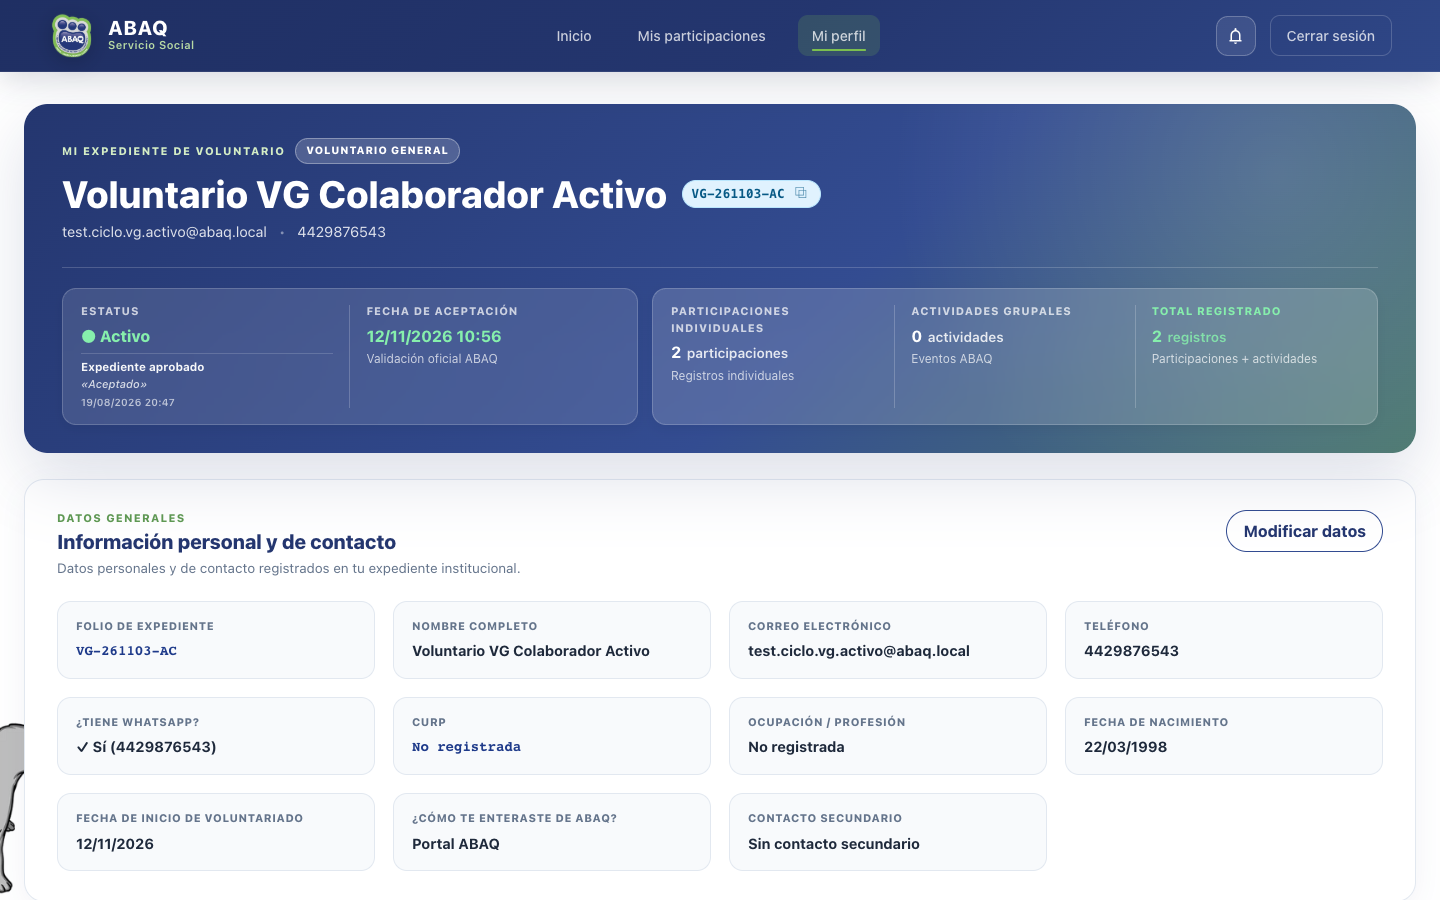
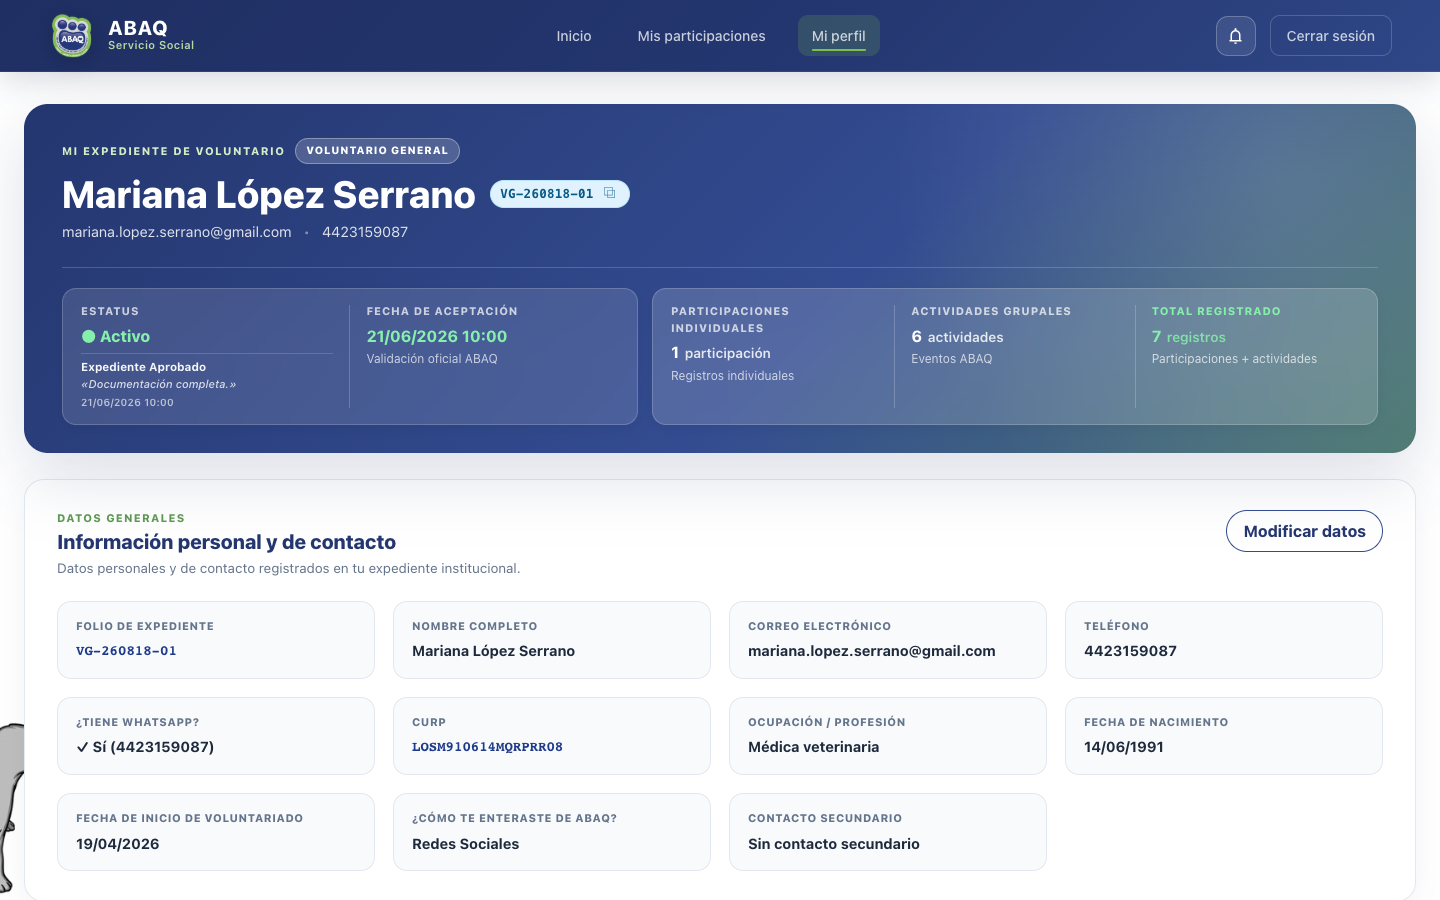
docs(manuales): actualiza capturas y datos de ejemplo de Servicio Social y Voluntario General

diff --git a/docs/guias/usuario/manual-voluntario-general.md b/docs/guias/usuario/manual-voluntario-general.md
@@ -11,7 +11,7 @@ Este manual está dirigido a personas que participan en ABAQ Querétaro como **V
 
     - Los nombres de botones, pestañas y etiquetas aparecen entre comillas exactamente como se muestran en la interfaz.
     - Las cifras y folios que aparecen en las capturas pertenecen a una cuenta de demostración; en su cuenta verá sus propios datos.
-    - El **folio institucional** (formato `VG-XXXXXXXX-XX`) identifica de forma única su expediente y se utiliza en constancias y comunicaciones con la Coordinación.
+    - El **folio institucional** (formato `VG-YYMMDD-XX`, por ejemplo `VG-260818-01`) identifica de forma única su expediente y se utiliza en constancias y comunicaciones con la Coordinación.
 
 ## Índice de capturas de pantalla
 
@@ -131,7 +131,7 @@ El encabezado ofrece:
 
 - Los botones **Ver actividades para inscribirme** y **Registrar vinculación**.
 - Las píldoras de resumen: **participaciones en total**, **próximas en mi agenda**, **en revisión** y **validadas**. A diferencia del perfil de Servicio Social, no existe la píldora de horas acumuladas.
-- **Tu agenda de participación**: las convocatorias a las que se inscribió y las vinculaciones programadas para la semana en curso y la siguiente, organizadas por bloques **ESTA SEMANA** y la semana posterior. Cada tarjeta indica la fecha (por ejemplo, **Jue 12 Nov**), el tipo de participación (**Vinculación**), el botón **Agregar al calendario**, el folio con su identificador `OP-…`, la categoría de la actividad y la nota registrada para la Coordinación, con el botón **Ver detalles**.
+- **Tu agenda de participación**: las convocatorias a las que se inscribió y las vinculaciones programadas para la semana en curso y la siguiente, organizadas por bloques **ESTA SEMANA** y la semana posterior. Cada tarjeta indica la fecha (por ejemplo, **Sáb 21 Nov**), el tipo de participación (**Convocatoria**), el botón **Agregar al calendario**, el folio con su identificador `OP-…`, la categoría de la actividad y las indicaciones de la Coordinación, con los botones **Ver detalles**, **Ver asistentes** y **Cancelar asistencia**.
 
 ### 5.2 Búsqueda, filtros e inscripción
 
@@ -158,7 +158,7 @@ Cada tarjeta de convocatoria abierta muestra el folio, la etiqueta de estado (po
 
 ### 5.3 Estados de una participación
 
-![Tarjetas de participación con barras de avance de inscrito a validada y de enviada a revisión](attachments/compartido-01-estado-inscrito.png)
+![Tarjeta de una vinculación enviada con la barra de avance de enviada a validada](attachments/compartido-01-estado-inscrito.png)
 
 Cada participación muestra una barra de avance con su etapa actual:
 
@@ -167,7 +167,7 @@ Cada participación muestra una barra de avance con su etapa actual:
 | **Convocatorias** | 1. **Inscrito** → 2. **Asistencia** (o **No asistió**) → 3. **Validada** |
 | **Vinculaciones** | 1. **Enviada** → 2. **En revisión** → 3. **Validada** (o **Rechazada**) |
 
-Las vinculaciones muestran además la nota registrada para la Coordinación («Tu nota para la Coordinación: …») y el botón **Cancelar envío**, disponible mientras la solicitud no ha sido validada. En convocatorias inscritas, el botón **Cancelar asistencia** libera su lugar.
+Las vinculaciones muestran además la nota registrada para la Coordinación («Tu nota para la Coordinación: …») y el botón **Cancelar envío**, disponible mientras la solicitud no ha sido validada. En convocatorias inscritas, el botón **Cancelar asistencia** libera su lugar. La captura de esta sección ilustra una vinculación en revisión, con la etapa **2. En revisión** activa.
 
 ### 5.4 Cancelar asistencia
 
@@ -186,7 +186,7 @@ Una **vinculación** es cualquier apoyo concreto que ofrece a ABAQ fuera de una 
 Abra el formulario con el botón **Registrar vinculación** (disponible en el encabezado de **Mis participaciones** y en el menú móvil). El formulario incluye:
 
 1. **Proceso de verificación institucional**: aviso de que el registro no se acredita de forma automática; al enviarlo, la Coordinación de Voluntariado revisará su evidencia para verificarla y emitir su acreditación oficial.
-2. **Identificación del expediente**: la tarjeta verde confirma el expediente de Voluntario General como registro de labor social comunitaria, por ejemplo **[VG-261103-AC] Voluntario VG Colaborador Activo**.
+2. **Identificación del expediente**: la tarjeta verde confirma el expediente de Voluntario General como registro de labor social comunitaria, con la leyenda «Voluntario General — Registro de labor social comunitaria»; por ejemplo, **[VG-260818-01] Mariana López Serrano**.
 3. **¿Cómo participaste?**: lista de opciones de participación.
 4. **Documento comprobante (.PDF)**: área para arrastrar y soltar el archivo. El documento debe ser oficial, en formato `.PDF`, y se envía a resguardo cifrado en el repositorio institucional.
 5. Los botones **Cancelar** y **Enviar a revisión de Coordinación**.
@@ -225,7 +225,7 @@ La sección **Mi perfil** presenta el expediente institucional del voluntario: e
 El encabezado del expediente, identificado como **MI EXPEDIENTE DE VOLUNTARIO · VOLUNTARIO GENERAL**, muestra:
 
 - Su nombre y **folio institucional**.
-- **Estatus** de la cuenta (por ejemplo, **Activo**) y el resultado de la última revisión (**Expediente aprobado «Aceptado»**).
+- **Estatus** de la cuenta (por ejemplo, **Activo**) y el resultado de la última revisión (**Expediente aprobado «Documentación completa.»**).
 - **Fecha de aceptación** con la validación oficial de ABAQ.
 - **Participaciones individuales**, **actividades grupales** y **total registrado**.
 
@@ -233,7 +233,7 @@ La tarjeta **Información personal y de contacto** presenta, entre otros, los si
 
 | Dato | Descripción |
 |------|-------------|
-| **Folio de expediente** | Identificador institucional (por ejemplo, `VG-261103-AC`). |
+| **Folio de expediente** | Identificador institucional (por ejemplo, `VG-260818-01`). |
 | **Nombre completo**, **correo electrónico** y **teléfono** | Datos de contacto registrados. |
 | **¿Tiene WhatsApp?** | Indicador del canal de contacto. |
 | **CURP** y **ocupación / profesión** | Datos capturados en el onboarding. |
@@ -264,11 +264,11 @@ La sección **Consentimientos y reglamento** incluye:
 
 La sección **Comunidad y redes — Canales oficiales y difusión** muestra las cuentas registradas para comunicación institucional y difusión de actividades (Facebook, Instagram, TikTok, X (Twitter), YouTube y LinkedIn), con el botón **Modificar datos** para actualizarlas.
 
-Finalmente, la sección **Trazabilidad institucional — Historial** presenta la tabla de folios únicos asignados a su expediente, actividades grupales y participaciones individuales, organizada por las columnas **Folio**, **Concepto**, **Detalle**, **Estado** y **Fecha**. Cada folio (por ejemplo, `VG-261103-AC` para el expediente o `OP-EVE-…` para una acreditación institucional) puede copiarse para referencias ante la Coordinación.
+Finalmente, la sección **Trazabilidad institucional — Historial** presenta la tabla de folios únicos asignados a su expediente, actividades grupales y participaciones individuales, organizada por las columnas **Folio**, **Concepto**, **Detalle**, **Estado** y **Fecha**. Cada folio (por ejemplo, `VG-260818-01` para el expediente o `OP-EVE-261121-4EA3` para una actividad asignada) puede copiarse para referencias ante la Coordinación.
 
 ## 8. Notificaciones
 
-![Centro de notificaciones con búsqueda, filtros y estado vacío](attachments/vg-12-notificaciones.png)
+![Centro de notificaciones con avisos de nueva convocatoria y de participación validada](attachments/vg-12-notificaciones.png)
 
 El ícono de campana de la barra de navegación abre el **Centro de Notificaciones ABAQ**, un panel lateral con:
 
@@ -277,7 +277,7 @@ El ícono de campana de la barra de navegación abre el **Centro de Notificacion
 - **Filtros**: **Todas**, **No leídas**, **Convocatorias** y **Vinculaciones**.
 - La acción **Marcar todas como leídas**.
 
-En este centro recibirá sus aceptaciones de expediente, constancias, avisos institucionales y el resumen semanal de actividades. Las notificaciones le informan, por ejemplo, de la validación de una vinculación o de la aprobación de su expediente.
+En este centro recibirá sus aceptaciones de expediente, constancias, avisos institucionales y el resumen semanal de actividades. Las notificaciones le informan, por ejemplo, de la validación de una participación o de la aprobación de su expediente. La captura muestra una **nueva convocatoria** y la **participación validada** por la Recolecta de alimento y cobijas del 12 de noviembre.
 
 !!! note "Filtros por rol"
 

diff --git a/docs/guias/usuario/manual-servicio-social.md b/docs/guias/usuario/manual-servicio-social.md
@@ -11,7 +11,7 @@ Este manual está dirigido a estudiantes universitarios que realizan su **Servic
 
     - Los nombres de botones, pestañas y etiquetas aparecen entre comillas exactamente como se muestran en la interfaz.
     - Las cifras y folios que aparecen en las capturas pertenecen a una cuenta de demostración; en su cuenta verá sus propios datos.
-    - El **folio institucional** (formato `SS-XXXXXXXX-XX`) identifica de forma única su expediente y se utiliza en constancias y comunicaciones con la Coordinación.
+    - El **folio institucional** (formato `SS-YYMMDD-XX`, por ejemplo `SS-260818-01`) identifica de forma única su expediente y se utiliza en constancias y comunicaciones con la Coordinación.
 
 ## Índice de capturas de pantalla
 
@@ -227,7 +227,7 @@ El encabezado ofrece:
 
 - Los botones **Ver actividades para inscribirme** y **Registrar vinculación**.
 - Las píldoras de resumen: **participaciones en total**, **próximas en mi agenda**, **en revisión**, **validadas** y **horas acumuladas de 480 h**.
-- **Tu agenda de participación**: las convocatorias a las que se inscribió y las vinculaciones programadas para la semana en curso y la siguiente, organizadas por bloques **ESTA SEMANA** y la semana posterior. Cada tarjeta indica la fecha (por ejemplo, **HOY Mar 17 Nov**), el horario, el botón **Agregar al calendario**, el folio con su identificador `OP-…`, la categoría de la actividad, el cupo y el avance de su trámite, con los botones **Ver detalles**, **Ver asistentes** y **Cancelar asistencia**.
+- **Tu agenda de participación**: las convocatorias a las que se inscribió y las vinculaciones programadas para la semana en curso y la siguiente, organizadas por bloques **ESTA SEMANA** y la semana posterior. Cada tarjeta indica la fecha (por ejemplo, **Sáb 21 Nov**), el horario, el botón **Agregar al calendario**, el folio con su identificador `OP-…`, la categoría de la actividad, el cupo y el avance de su trámite, con los botones **Ver detalles**, **Ver asistentes** y **Cancelar asistencia**.
 
 ### 5.2 Búsqueda, filtros e inscripción
 
@@ -252,7 +252,7 @@ Cada tarjeta de convocatoria abierta muestra el folio, la etiqueta de estado (po
 
 ### 5.3 Estados de una participación
 
-![Tarjetas de participación con barras de avance de inscrito a validada y de enviada a revisión](attachments/compartido-01-estado-inscrito.png)
+![Tarjeta de una vinculación enviada con la barra de avance de enviada a validada](attachments/compartido-01-estado-inscrito.png)
 
 Cada participación muestra una barra de avance con su etapa actual:
 
@@ -261,7 +261,7 @@ Cada participación muestra una barra de avance con su etapa actual:
 | **Convocatorias** | 1. **Inscrito** → 2. **Asistencia** (o **No asistió**) → 3. **Validada** |
 | **Vinculaciones** | 1. **Enviada** → 2. **En revisión** → 3. **Validada** (o **Rechazada**) |
 
-Las vinculaciones muestran además la nota registrada para la Coordinación («Tu nota para la Coordinación: …») y el botón **Cancelar envío**, disponible mientras la solicitud no ha sido validada. En convocatorias inscritas, el botón **Cancelar asistencia** libera su lugar.
+Las vinculaciones muestran además la nota registrada para la Coordinación («Tu nota para la Coordinación: …») y el botón **Cancelar envío**, disponible mientras la solicitud no ha sido validada. En convocatorias inscritas, el botón **Cancelar asistencia** libera su lugar. La captura de esta sección ilustra la vinculación `OP-MED-261114-3C9A`, con la etapa **2. En revisión** activa.
 
 ### 5.4 Cancelar asistencia
 
@@ -287,7 +287,7 @@ La pestaña **Mi historial** presenta la tabla **Mi historial de participación*
 
 | Columna | Contenido |
 |---------|-----------|
-| **Folio** | Identificador único de la participación (por ejemplo, `OP-TLK-261110-ED49`). |
+| **Folio** | Identificador único de la participación (por ejemplo, `OP-EVE-261108-4EB1`). |
 | **Forma de participar** | Convocatoria o vinculación. |
 | **Participación** | Nombre de la actividad y descripción breve. |
 | **Horas** | Horas asociadas a la participación. |
@@ -308,7 +308,7 @@ Una **vinculación** es cualquier apoyo concreto que ofrece a ABAQ fuera de una 
 Abra el formulario con el botón **Registrar vinculación** (disponible en el encabezado de **Mis participaciones** y en el menú móvil). El formulario incluye:
 
 1. **Proceso de verificación institucional**: aviso de que el registro no se acredita de forma automática; al enviarlo, la Coordinación de Voluntariado revisará su evidencia y emitirá su acreditación oficial sumando horas curriculares.
-2. **Identificación del expediente**: la tarjeta azul confirma el expediente activo con conteo de horas curriculares, por ejemplo **[SS-261103-AC] Estudiante SS Regular Activo**.
+2. **Identificación del expediente**: la tarjeta azul confirma el expediente activo y su folio institucional, con la leyenda «Estudiante de Servicio Social — Participación con conteo de horas curriculares»; por ejemplo, **[SS-260818-01] Andrea Sofía Martínez Ruiz**.
 3. **¿Cómo participaste?**: lista de opciones de participación.
 4. **Documento comprobante (.PDF)**: área para arrastrar y soltar el archivo, o el botón **Examinar archivo**. El documento debe ser oficial, en formato `.PDF` con un máximo de 15 MB, y se envía a resguardo cifrado en el repositorio institucional.
 5. **Nota para la Coordinación (opcional)**: descripción breve de la labor realizada.
@@ -366,7 +366,7 @@ La sección **Mi perfil** presenta el expediente institucional del estudiante: e
 
 El encabezado del expediente muestra:
 
-- **Estatus** de la cuenta (por ejemplo, **Activo**) y el resultado de la última revisión (**Expediente aprobado «Aceptado»**).
+- **Estatus** de la cuenta (por ejemplo, **Activo**) y el resultado de la última revisión (**Expediente aprobado «Documentación completa.»**).
 - **Fecha de aceptación** con la validación oficial de ABAQ.
 - **Participaciones individuales**, **actividades grupales** y **total registrado**.
 
@@ -397,7 +397,7 @@ La sección **Expediente digital** organiza los documentos oficiales:
 
 ## 8. Notificaciones
 
-![Centro de notificaciones con búsqueda, filtros y estado vacío](attachments/ss-11-notificaciones.png)
+![Centro de notificaciones con avisos de nueva convocatoria y de vinculación validada](attachments/ss-11-notificaciones.png)
 
 El ícono de campana de la barra de navegación abre el **Centro de Notificaciones ABAQ**, un panel lateral con:
 
@@ -406,7 +406,7 @@ El ícono de campana de la barra de navegación abre el **Centro de Notificacion
 - **Filtros**: **Todas**, **No leídas**, **Convocatorias** y **Vinculaciones**.
 - La acción **Marcar todas como leídas**.
 
-En este centro recibirá sus aceptaciones de expediente, constancias, avisos institucionales y el resumen semanal de actividades. Las notificaciones le informan, por ejemplo, de la validación de una vinculación, de la aprobación de su expediente o de la emisión de una constancia.
+En este centro recibirá sus aceptaciones de expediente, constancias, avisos institucionales y el resumen semanal de actividades. Las notificaciones le informan, por ejemplo, de la validación de una vinculación, de la aprobación de su expediente o de la emisión de una constancia. La captura muestra una **nueva convocatoria** y la **validación de la vinculación** `OP-SOC-261027-77C3`, con 8 horas acreditadas.
 
 !!! note "Filtros por rol"
 
